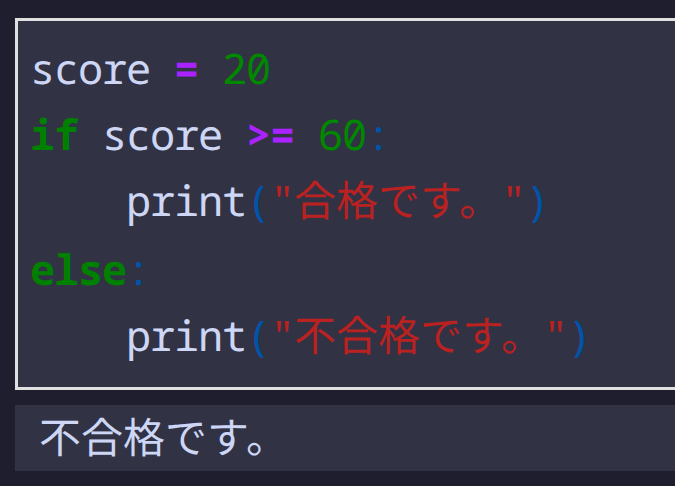
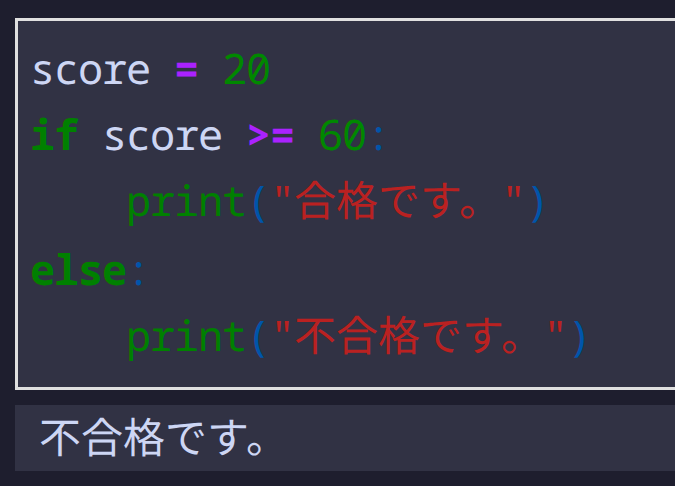
Color built-in functions (print, type, etc.) to match Jupyter's green

Changed region(s): [[0.1867, 0.6481, 0.3733, 0.7407], [0.1867, 0.3704, 0.3733, 0.463]]

diff --git a/main.py b/main.py
@@ -78,6 +78,9 @@ BASE_CSS = """
     box-shadow: none !important;
     border-radius: 0 !important;
   }}
+  .highlight .nb {{
+    color: var(--jp-mirror-editor-builtin-color) !important;
+  }}
   .jp-CodeMirrorEditor, .highlight, .highlight pre,
   .jp-RenderedText pre {{
     font-family: {code_font} !important;
